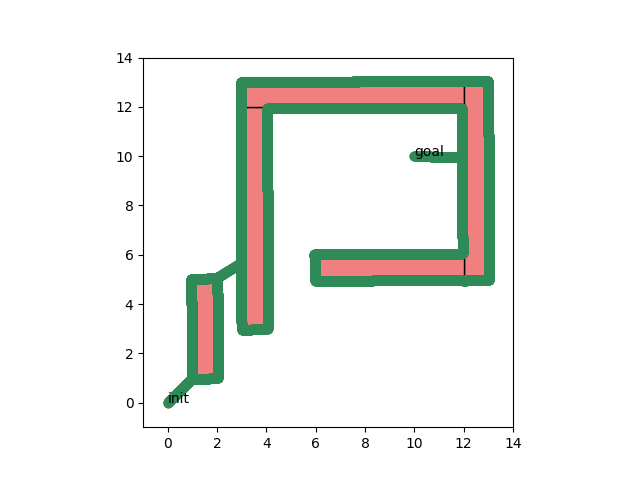
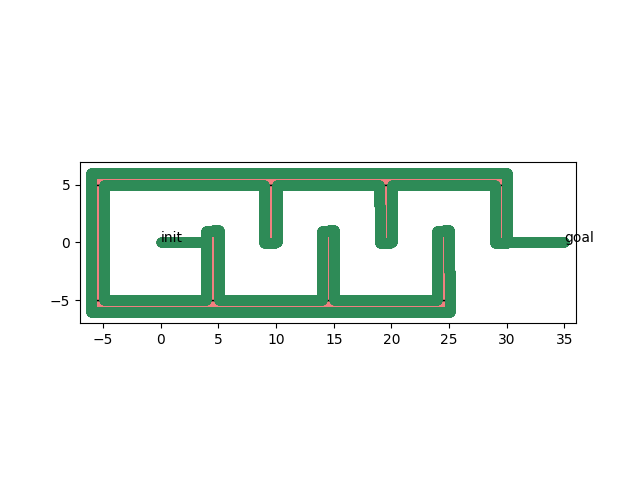
done hw2

diff --git a/ws/hw2/MyBugAlgorithm.cpp b/ws/hw2/MyBugAlgorithm.cpp
@@ -149,7 +149,7 @@ amp::Path2D MyBugAlgorithm::plan(const amp::Problem2D& problem) {
     int step_count = 0;
 
     // Main loop: Continue until the goal is reached
-    while ((current_pos - problem.q_goal).norm() > GLOBAL_STEP_SIZE && step_count < max_steps) {
+    while ((current_pos - problem.q_goal).norm() > GLOBAL_STEP_SIZE) {
         step_count++;
         
         // === STATE 1: MOVE TOWARDS GOAL ===
@@ -199,7 +199,7 @@ amp::Path2D MyBugAlgorithm::plan(const amp::Problem2D& problem) {
             
             // Wall following loop - go clockwise around obstacle
             int wall_follow_steps = 0;
-            while (wall_follow_steps < 200000) { // Safety limit for wall following
+            while (true) {
     
                 // Check if current position is closer to goal than previous minimum
                 double current_dist_to_goal = (current_pos - problem.q_goal).norm();
@@ -316,7 +316,6 @@ amp::Path2D MyBugAlgorithm::plan(const amp::Problem2D& problem) {
 
                 }
             }
-            LOG("Circumnavigation complete!");
             
           
           

diff --git a/ws/hw2/main.cpp b/ws/hw2/main.cpp
@@ -16,7 +16,7 @@ int main(int argc, char** argv) {
     /*    Randomly generate the problem     */ 
 
     // Use WO1 from Exercise 2
-    Problem2D problem = HW2::getWorkspace1();
+    Problem2D problem = HW2::getWorkspace2();
 
     // Use WO1 from Exercise 2
     /*
